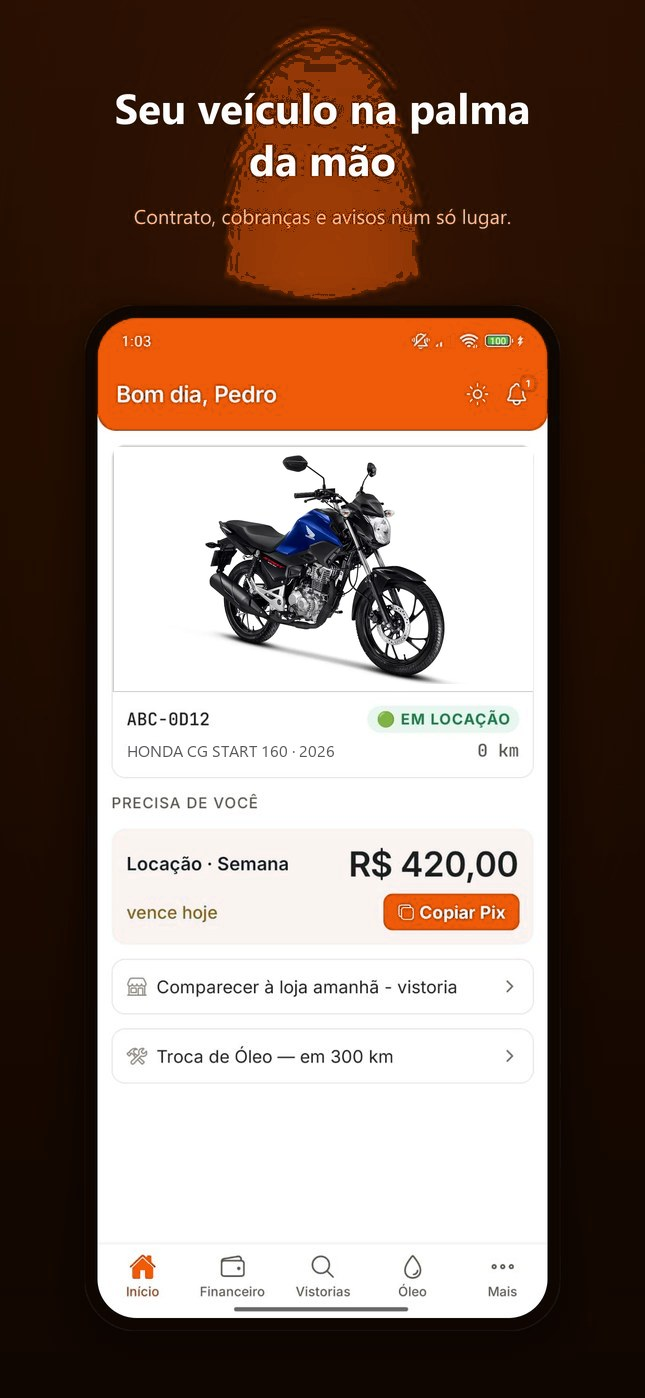
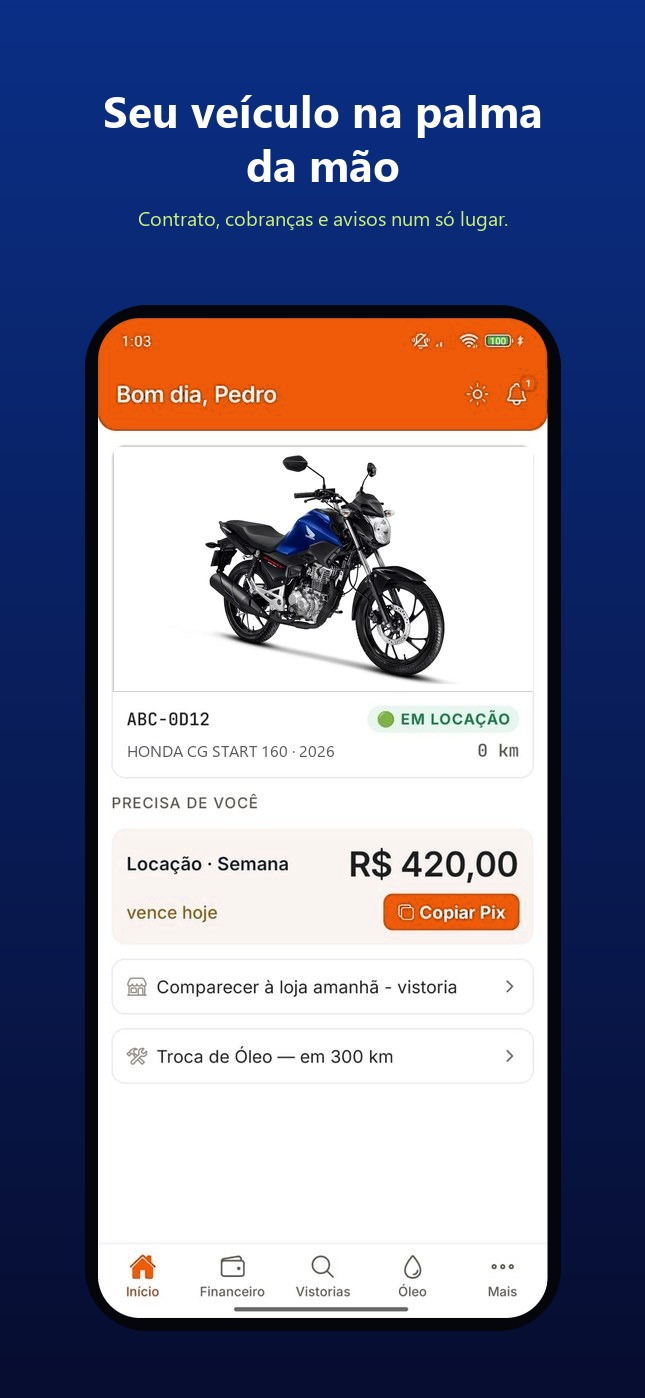
Remove a mancha das telas de divulgação nas lojas
Claude-Session: https://claude.ai/code/session_01D3JzwsE7RUqDpoRHQL1Qo3

diff --git a/index.html b/index.html
@@ -311,8 +311,8 @@ footer{padding:26px 0;color:var(--mutd);font-size:14px}
         </ul>
       </div>
       <div class="phones">
-        <div class="phone"><img src="img/loja/loja-google-play.jpg" alt="App da Alug Já na Google Play" loading="lazy" /></div>
-        <div class="phone"><img src="img/loja/loja-app-store.jpg" alt="App da Alug Já na App Store" loading="lazy" /></div>
+        <div class="phone"><img src="img/loja/loja-google-play.jpg?v=2" alt="App da Alug Já na Google Play" loading="lazy" /></div>
+        <div class="phone"><img src="img/loja/loja-app-store.jpg?v=2" alt="App da Alug Já na App Store" loading="lazy" /></div>
       </div>
     </div>
     <div class="team">
